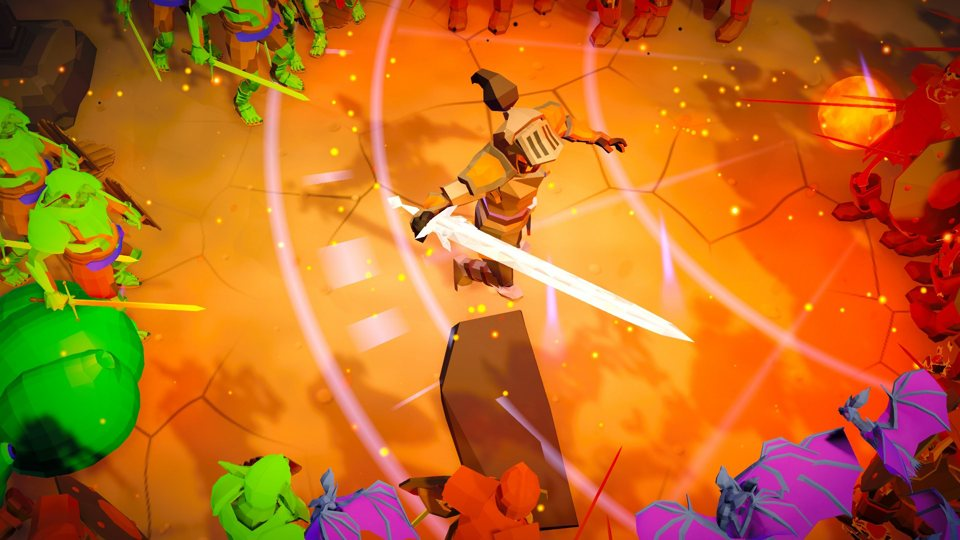
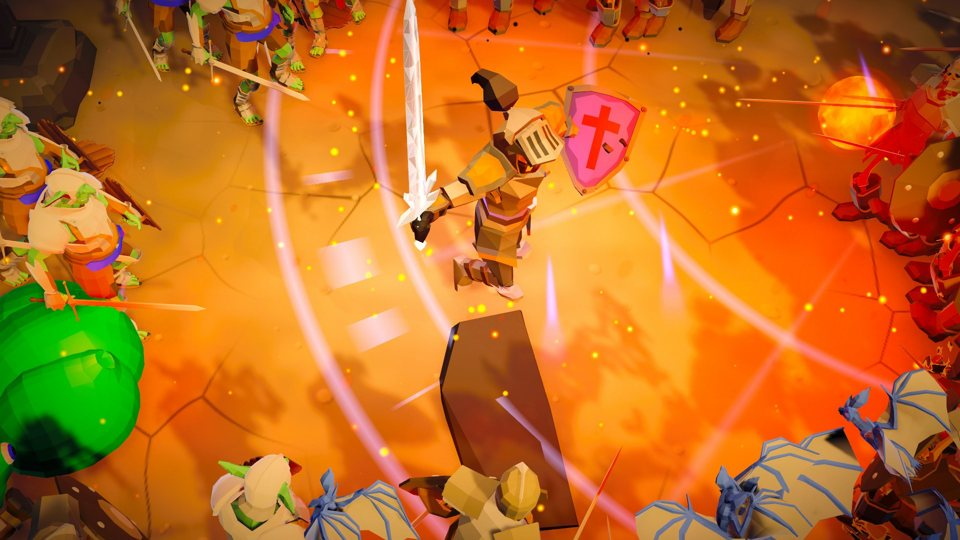
fix(demo3d): hold the hero's crystal blade in the fist and stop it flailing
The blade took its axes from the Synty broadsword, whose blade runs along
the hand bone's Y while this hand's fist runs along its Z, so it stuck out
of the back of the hand and swung through the body. HeroBlade now builds
the grip from the hand's finger bones (across the knuckles, blade on the
thumb side, edge toward the knuckles) and shortens the blade to 1.15 m.
The walk and run are unarmed clips, so StockCrowd.HoldArms layers the
sword idle's arms over them. The shield, drawn at the hand bone's scale
(about 1 cm), now gets the character's scale. --blade-tune gains grip keys.

diff --git a/demo3d/Assets/Demo3D/Runtime/Crowd/HeroBlade.cs b/demo3d/Assets/Demo3D/Runtime/Crowd/HeroBlade.cs
@@ -9,20 +9,23 @@ namespace Demo3D.Runtime.Crowd
     /// <summary>
     /// The hero's crystal blade (crowd.md, The Hero): a big cut-crystal sword, white and glowing, in
     /// place of the knight's broadsword, under every monster style. Its mesh is made here (no vendor
-    /// asset): a pommel gem, a crossguard and a long diamond-section blade with a spine, every triangle
+    /// asset): a pommel gem, a crossguard and a long faceted blade with a spine, every triangle
     /// flat with its own barycentrics, as the crowd's style mesh, so CrystalCommon's facets, edges and
     /// glints read on it. CrystalBlade.shader draws it.
     ///
-    /// The blade sits where the broadsword's mesh says the sword lies in the hand: its longest side is
-    /// the blade (toward its far end from the grip), its next the crossguard, so the blade's edges stay
-    /// in the swing's plane. The broadsword's renderer is turned off, not removed.
+    /// The grip comes from the hand's bones: the handle runs through the fist across the knuckles, the
+    /// blade leaving it on the thumb's side with its edge toward the knuckles, as the Sword Combat clips
+    /// hold a sword. The broadsword's renderer is turned off, not removed.
     /// </summary>
     public sealed class HeroBlade : IDisposable
     {
-        /// <summary>The blade's length from the guard to the tip, in metres (the broadsword's is about 1 m).</summary>
-        public const float BladeM = 1.45f;
+        /// <summary>The blade's length from the guard to the tip, in metres: big, but short enough that the
+        /// sword clips' swings stay clear of the body and the ground.</summary>
+        public const float BladeM = 1.15f;
         /// <summary>The blade's width at the guard and its thickness at the spine, in metres.</summary>
-        public const float WidthM = 0.17f, ThickM = 0.055f;
+        public const float WidthM = 0.15f, ThickM = 0.05f;
+        /// <summary>The middle of the handle, which sits in the fist (mesh metres, below the guard).</summary>
+        const float GripY = -0.06f;
 
         /// <summary>A blow's flare: up at once, gone over this long (s).</summary>
         const float FlareS = 0.22f;
@@ -31,8 +34,8 @@ namespace Demo3D.Runtime.Crowd
 
         /// <summary>
         /// `--blade-tune key=value,...`: overrides the blade material's values for a run, to judge a
-        /// change without a rebuild. Keys: behind, glow, flare, gain, peak, refraction, facets, and the
-        /// gem's colour as r, g, b.
+        /// change without a rebuild. Keys: behind, glow, flare, gain, peak, refraction, facets, the
+        /// gem's colour as r, g, b, and the grip's palm, back, pitch, yaw, roll and length (GripTune).
         /// </summary>
         public const string TuneFlag = "--blade-tune";
 
@@ -43,6 +46,12 @@ namespace Demo3D.Runtime.Crowd
         };
 
         float _flareGain = 1f;
+
+        /// <summary>The grip's tuning (`--blade-tune`): the handle's offset toward the palm and back from
+        /// the knuckles (m), a turn on top of the fist's axes (degrees: pitch about the edge, yaw about
+        /// the blade, roll about the flats) and the sword's scale.</summary>
+        struct GripTune { public float PalmM, BackM, Pitch, Yaw, Roll, Length; }
+        GripTune _tune = new GripTune { PalmM = 0.02f, Length = 1f };
 
         readonly Material _material, _motion;
         readonly Mesh _mesh;
@@ -72,57 +81,85 @@ namespace Demo3D.Runtime.Crowd
                 int k = Array.FindIndex(TuneKeys, t => t.Key == key);
                 if (k >= 0) _material.SetFloat(TuneKeys[k].Property, v);
                 else if (key == "flare") _flareGain = v;
+                else if (key == "palm") _tune.PalmM = v;
+                else if (key == "back") _tune.BackM = v;
+                else if (key == "pitch") _tune.Pitch = v;
+                else if (key == "yaw") _tune.Yaw = v;
+                else if (key == "roll") _tune.Roll = v;
+                else if (key == "length") _tune.Length = v;
                 else if (key == "r") tint.r = v;
                 else if (key == "g") tint.g = v;
                 else if (key == "b") tint.b = v;
-                else throw new ArgumentException($"{TuneFlag}: no key '{key}' (behind, glow, flare, gain, peak, refraction, facets, r, g, b)");
+                else throw new ArgumentException($"{TuneFlag}: no key '{key}' (behind, glow, flare, gain, peak, refraction, facets, r, g, b, palm, back, pitch, yaw, roll, length)");
             }
             _material.SetColor("_Tint", tint);
             Debug.Log($"HeroBlade: {TuneFlag} {pairs}");
         }
 
-        /// <summary>Puts the blade in the hero's right hand (StockCrowd.Created).</summary>
+        /// <summary>Puts the blade in the hero's right hand (StockCrowd.Created), in its bind pose.</summary>
         public void Attach(GameObject hero)
         {
             var animator = hero.GetComponentInChildren<Animator>();
             var hand = animator != null && animator.isHuman ? animator.GetBoneTransform(HumanBodyBones.RightHand) : null;
             if (hand == null) throw new InvalidOperationException("HeroBlade: the hero has no humanoid right hand");
-            // The broadsword: the mesh renderer under the hand.
-            var sword = hand.GetComponentInChildren<MeshFilter>();
-            if (sword == null || sword.sharedMesh == null) throw new InvalidOperationException("HeroBlade: no sword in the hero's right hand");
+            var sword = hand.GetComponentInChildren<MeshFilter>(); // the broadsword, turned off below
+            float handScale = hand.lossyScale.x;
 
-            // The sword's mesh bounds in the hand's space: its longest side is the blade, toward the end
-            // farther from the grip (the hand's origin); the next longest is the crossguard.
-            var b = sword.sharedMesh.bounds;
-            var toHand = hand.worldToLocalMatrix * sword.transform.localToWorldMatrix;
-            Vector3 min = Vector3.positiveInfinity, max = Vector3.negativeInfinity;
-            for (int i = 0; i < 8; i++)
-            {
-                var c = toHand.MultiplyPoint3x4(b.center + Vector3.Scale(b.extents, new Vector3((i & 1) * 2 - 1, (i >> 1 & 1) * 2 - 1, (i >> 2 & 1) * 2 - 1)));
-                min = Vector3.Min(min, c);
-                max = Vector3.Max(max, c);
-            }
-            var size = max - min;
-            int along = size.x >= size.y && size.x >= size.z ? 0 : size.y >= size.z ? 1 : 2;
-            int across = along == 0 ? (size.y >= size.z ? 1 : 2) : along == 1 ? (size.x >= size.z ? 0 : 2) : (size.x >= size.y ? 0 : 1);
-            var tip = Vector3.zero;
-            tip[along] = Mathf.Abs(max[along]) >= Mathf.Abs(min[along]) ? 1 : -1;
-            var edge = Vector3.zero;
-            edge[across] = 1;
+            // The grip runs through the fist: across the knuckles, from the fused fingers' root to the
+            // index finger's, so the blade leaves the fist on the thumb's side, as a held sword does.
+            // Its edge faces the way the fingers point (the knuckles' side), and the handle sits a
+            // little in from the knuckles toward the palm. All in the hand's space, from the bind pose.
+            Vector3 Local(Transform t) => hand.InverseTransformPoint(t.position);
+            var index = Bone(animator, hand, HumanBodyBones.RightIndexProximal, "IndexFinger_01");
+            var rest = Bone(animator, hand, HumanBodyBones.RightMiddleProximal, "Finger_01")
+                ?? Bone(animator, hand, HumanBodyBones.RightRingProximal, null);
+            var thumb = Bone(animator, hand, HumanBodyBones.RightThumbProximal, "Thumb_01");
+            if (index == null || rest == null || index.childCount == 0)
+                throw new InvalidOperationException("HeroBlade: the hero's right hand has no index and middle finger bones");
+            Vector3 a = Local(index), r = Local(rest), next = Local(index.GetChild(0));
+            var axis = (a - r).normalized;
+            var finger = next - a;
+            var edge = (finger - Vector3.Dot(finger, axis) * axis).normalized;
+            var palm = Vector3.Cross(axis, edge);
+            var knuckles = (a + r) * 0.5f;
+            if (thumb != null && Vector3.Dot(palm, Local(thumb) - knuckles) < 0) palm = -palm;
+            var grip = knuckles + (palm * _tune.PalmM - edge * _tune.BackM) / handScale;
 
+            var turn = Quaternion.LookRotation(Vector3.Cross(edge, axis), axis) * Quaternion.Euler(_tune.Pitch, _tune.Yaw, _tune.Roll);
             var go = new GameObject("CrystalBlade");
             go.transform.SetParent(hand, false);
-            // The mesh is in metres: undo the hand's scale (the prefab's, at its scale in the demo).
-            float handScale = hand.lossyScale.x;
-            go.transform.localScale = Vector3.one / handScale;
-            go.transform.localRotation = Quaternion.LookRotation(Vector3.Cross(edge, tip), tip);
+            // The mesh is in metres: undo the hand's scale (the prefab's, at its scale in the demo). Its
+            // handle's middle (GripY) is in the fist.
+            go.transform.localScale = Vector3.one * (_tune.Length / handScale);
+            go.transform.localRotation = turn;
+            go.transform.localPosition = grip - turn * new Vector3(0, GripY * _tune.Length / handScale, 0);
             go.AddComponent<MeshFilter>().sharedMesh = _mesh;
-            var r = go.AddComponent<MeshRenderer>();
-            r.sharedMaterials = new[] { _material, _motion };
-            r.shadowCastingMode = ShadowCastingMode.On;
-            r.motionVectorGenerationMode = MotionVectorGenerationMode.Object;
-            sword.GetComponent<MeshRenderer>().enabled = false;
-            Debug.Log($"HeroBlade: replaced {sword.name} ({size[along] * handScale:F2} m) with a {BladeM:F2} m crystal blade");
+            var mr = go.AddComponent<MeshRenderer>();
+            mr.sharedMaterials = new[] { _material, _motion };
+            mr.shadowCastingMode = ShadowCastingMode.On;
+            mr.motionVectorGenerationMode = MotionVectorGenerationMode.Object;
+            if (sword != null) sword.GetComponent<MeshRenderer>().enabled = false;
+
+            // The shield rides the left hand as the broadsword did, at the hand bone's scale, which
+            // drew it about 1 cm wide: give it the character's scale instead.
+            var leftHand = animator.GetBoneTransform(HumanBodyBones.LeftHand);
+            var shield = leftHand != null ? leftHand.GetComponentInChildren<MeshFilter>() : null;
+            if (shield != null)
+            {
+                shield.transform.localScale = Vector3.one * (hero.transform.lossyScale.x / leftHand.lossyScale.x);
+                Debug.Log($"HeroBlade: {shield.name} at the character's scale ({shield.sharedMesh.bounds.size.magnitude * hero.transform.lossyScale.x:F2} m across)");
+            }
+            Debug.Log($"HeroBlade: a {BladeM * _tune.Length:F2} m crystal blade in {hand.name}: axis {axis:F2}, edge {edge:F2}, palm {palm:F2}, " +
+                      $"grip {grip * handScale:F3} m from the wrist" + (sword != null ? $", in place of {sword.name}" : ""));
+        }
+
+        static Transform Bone(Animator animator, Transform hand, HumanBodyBones bone, string name)
+        {
+            var t = animator.GetBoneTransform(bone);
+            if (t != null || name == null) return t;
+            foreach (Transform c in hand)
+                if (c.name == name) return c;
+            return null;
         }
 
         /// <summary>Sets the blow flare for song time t in timeline tl (the world's time, as the hero is posed on).</summary>
@@ -221,8 +258,8 @@ namespace Demo3D.Runtime.Crowd
                 b.Spike(root, dir, len, 0.022f);
             }
             // The grip, inside the hand, and the pommel gem.
-            b.Bipyramid(new Vector3(0, -0.08f, 0), new Vector3(0.022f, 0, 0), new Vector3(0, 0.11f, 0), new Vector3(0, 0, 0.022f), 6);
-            b.Bipyramid(new Vector3(0, -0.21f, 0), new Vector3(0.04f, 0, 0), new Vector3(0, 0.05f, 0), new Vector3(0, 0, 0.04f), 5);
+            b.Bipyramid(new Vector3(0, GripY, 0), new Vector3(0.02f, 0, 0), new Vector3(0, 0.085f, 0), new Vector3(0, 0, 0.02f), 6);
+            b.Bipyramid(new Vector3(0, GripY - 0.11f, 0), new Vector3(0.035f, 0, 0), new Vector3(0, 0.045f, 0), new Vector3(0, 0, 0.035f), 5);
             return b.ToMesh();
         }
 

diff --git a/demo3d/Assets/Demo3D/Runtime/Crowd/StockCrowd.cs b/demo3d/Assets/Demo3D/Runtime/Crowd/StockCrowd.cs
@@ -28,6 +28,8 @@ namespace Demo3D.Runtime.Crowd
             public PlayableGraph Graph;
             public AnimationMixerPlayable Mixer;
             public AnimationClipPlayable[] Clips;
+            public AnimationLayerMixerPlayable Layers; // with HoldArms: the mixer, then the held arms
+            public AnimationClipPlayable Hold;
             public Renderer[] Renderers;
             public Vector3 BaseScale;
             public float SinkM;
@@ -56,6 +58,29 @@ namespace Demo3D.Runtime.Crowd
         /// <summary>Called with each new monster's GameObject, after its renderers are listed, so what it
         /// adds keeps its own material properties (the hero's blade, HeroBlade).</summary>
         public System.Action<GameObject> Created;
+
+        int _holdClip = -1;
+        bool[] _holdsDuring;
+        float _holdShare;
+        AvatarMask _armsMask;
+
+        /// <summary>
+        /// Holds the arms in clip <paramref name="hold"/>'s pose while clips <paramref name="during"/>
+        /// play (the hero: the sword idle's arms over the unarmed walk and run, whose swinging arms
+        /// would fling the blade through the body), by <paramref name="share"/> of their weight. A
+        /// layer over the mixer, masked to the arms and fingers. Call before the first Draw.
+        /// </summary>
+        public void HoldArms(int hold, int[] during, float share = 1f)
+        {
+            _holdClip = hold;
+            _holdsDuring = new bool[_types[0].Assets.clips.Length];
+            foreach (int c in during) _holdsDuring[c] = true;
+            _holdShare = share;
+            _armsMask = new AvatarMask();
+            for (int i = 0; i < (int)AvatarMaskBodyPart.LastBodyPart; i++) _armsMask.SetHumanoidBodyPartActive((AvatarMaskBodyPart)i, false);
+            foreach (var part in new[] { AvatarMaskBodyPart.LeftArm, AvatarMaskBodyPart.RightArm, AvatarMaskBodyPart.LeftFingers, AvatarMaskBodyPart.RightFingers })
+                _armsMask.SetHumanoidBodyPartActive(part, true);
+        }
 
         public StockCrowd(bool vendorMaterials = false) { _vendorMaterials = vendorMaterials; }
 
@@ -125,7 +150,20 @@ namespace Demo3D.Runtime.Crowd
                 slot.Mixer.SetInputWeight(c, 0);
                 slot.Clips[c] = p;
             }
-            output.SetSourcePlayable(slot.Mixer);
+            if (_holdClip >= 0)
+            {
+                slot.Layers = AnimationLayerMixerPlayable.Create(slot.Graph, 2);
+                slot.Graph.Connect(slot.Mixer, 0, slot.Layers, 0);
+                slot.Layers.SetInputWeight(0, 1);
+                slot.Hold = AnimationClipPlayable.Create(slot.Graph, t.Assets.clips[_holdClip]);
+                slot.Hold.SetApplyFootIK(false);
+                slot.Hold.SetSpeed(0);
+                slot.Graph.Connect(slot.Hold, 0, slot.Layers, 1);
+                slot.Layers.SetLayerMaskFromAvatarMask(1, _armsMask);
+                slot.Layers.SetInputWeight(1, 0);
+                output.SetSourcePlayable(slot.Layers);
+            }
+            else output.SetSourcePlayable(slot.Mixer);
             slot.Graph.Play();
             Created?.Invoke(go);
             return slot;
@@ -189,6 +227,15 @@ namespace Demo3D.Runtime.Crowd
             if (b != a) s.Mixer.SetInputWeight((int)b, 1f - blend);
             s.Clips[a].SetTime(m.TimeA);
             if (b != a) s.Clips[b].SetTime(m.TimeB);
+            if (s.Layers.IsValid())
+            {
+                // The held arms take the walk's and run's share of the blend, so they ease in and out
+                // with the crossfades to and from the sword clips; the hold clip breathes on the walk's phase.
+                float held = (_holdsDuring[a] ? blend : 0f) + (b != a && _holdsDuring[b] ? 1f - blend : 0f);
+                s.Layers.SetInputWeight(1, held * _holdShare);
+                var holdClip = s.Hold.GetAnimationClip();
+                s.Hold.SetTime(_holdsDuring[a] ? m.TimeA / Mathf.Max(s.Clips[a].GetAnimationClip().length, 0.01f) * holdClip.length : 0);
+            }
 
             float flash = Mathf.Clamp01(m.HitFlash);
             if (_vendorMaterials)
@@ -221,6 +268,7 @@ namespace Demo3D.Runtime.Crowd
                 if (t.Instances.IsCreated) t.Instances.Dispose();
             }
             if (_root != null) Object.Destroy(_root.gameObject);
+            if (_armsMask != null) Object.Destroy(_armsMask);
             _types = null;
         }
     }

diff --git a/demo3d/Assets/Demo3D/Runtime/Playback/DemoMain.cs b/demo3d/Assets/Demo3D/Runtime/Playback/DemoMain.cs
@@ -236,6 +236,10 @@ namespace Demo3D.Runtime.Playback
             // texture, so that is on in every run.
             _heroBlade = new HeroBlade(CrowdLibrary.Load());
             _heroRenderer.Created = _heroBlade.Attach;
+            // The walk and run are unarmed: their swinging arms would fling the blade through the body,
+            // so the sword idle holds the arms while they play.
+            int heroIdle = _hero.ClipIndex("idle"), heroRun = _hero.ClipIndex("run");
+            if (heroIdle >= 0) _heroRenderer.HoldArms(heroIdle, heroRun >= 0 ? new[] { _heroWalk, heroRun } : new[] { _heroWalk });
             ApplyAntiAliasing(_flags.Aa, _rig.Camera);
             _supersample = Supersampling.Factor(_flags);
             Supersampling.Apply(_supersample);

diff --git a/docs/tech-demo-3d/crowd.md b/docs/tech-demo-3d/crowd.md
@@ -460,16 +460,34 @@ their clip timing still comes from the timeline.
   Idles packs.
 - **The crystal blade.** The knight's broadsword is replaced by a big
   white crystal blade (`HeroBlade`), under every `--monster-style`: a
-  1.45 m diamond-section blade with a spine, a crossguard of crystal
-  points, shards growing from its root and a pommel gem. Its mesh is made
-  at start-up, so it is no vendor asset. It sits where the broadsword's
-  mesh lies in the hand: the broadsword's longest side is the blade's axis
-  and its next the crossguard's, so the edges stay in the swing's plane.
-  The broadsword's renderer is turned off. (The broadsword itself drew
-  about 1 cm long, as `HeroBlade`'s log measures it: the roster attaches
-  weapons to the hand bone with no correction for the bone's scale, so it
-  was never visible. The blade undoes the hand's scale, so its mesh is in
-  metres.)
+  1.15 m faceted blade with a spine, a crossguard of crystal points,
+  shards growing from its root and a pommel gem. Its mesh is made at
+  start-up, so it is no vendor asset. The broadsword's renderer is turned
+  off.
+  - **The grip** comes from the right hand's bones in the bind pose: the
+    handle runs through the fist across the knuckles (from the fused
+    fingers' root to the index finger's), the blade leaving it on the
+    thumb's side with its edge toward the knuckles, and the handle sits
+    2 cm in from the knuckles toward the palm. That is how the Sword
+    Combat clips hold a sword. The Synty broadsword's own axes are 90
+    degrees off this hand's (its blade runs along the hand bone's Y, the
+    fist along its Z), so a blade placed by the broadsword stuck out of
+    the back of the hand and swung through the body.
+  - **The scale.** The roster attaches weapons to the hand bone with no
+    correction for the bone's scale, which drew the broadsword about 1 cm
+    long and the shield as small: the hero looked empty-handed. The blade
+    undoes the hand's scale, so its mesh is in metres, and `HeroBlade`
+    gives the shield (`SM_Wep_Shield_01`, on the left hand, placed as Synty
+    made it) the character's scale. The crowd's weapons are untouched.
+  - **The arms while walking.** The hero's walk and run are Base
+    Locomotion's unarmed clips (Sword Combat has none), whose swinging
+    arms carried the blade behind the back and through the legs. So
+    `StockCrowd.HoldArms` layers the sword idle's arms and fingers (an
+    `AvatarMask` on an `AnimationLayerMixerPlayable`) over the walk and
+    run, by their share of the blend, so the arms ease into and out of
+    the combos with the crossfades; the hold breathes on the walk's phase.
+    The hero walks about a third of the song and never plays the idle on
+    its own.
   - **The look** is Crystal's (`CrystalCommon.hlsl`, in
     `Demo3D/Styles/CrystalBlade`): faceted gem refracting the scene, banded
     reflections, lit facet edges and glints, in white. A light inside,
@@ -491,7 +509,9 @@ their clip timing still comes from the timeline.
     light pool doesn't wash its facets out, and its gem is a grey white
     that the light inside lifts to white. `--blade-tune key=value,...`
     overrides the material for a run (behind, glow, flare, gain, peak,
-    refraction, facets, and the gem's r, g, b). Stills:
+    refraction, facets, and the gem's r, g, b) and the grip (palm and back,
+    the handle's offsets in metres; pitch, yaw and roll, a turn in
+    degrees; length, the sword's scale). Stills:
     [evidence/blade](../../demo3d/evidence/blade/README.md).
 - **Animation.** A `PlayableGraph` driven by song time plays the hero's clips,
   with no Animator state machine. Each combo clip starts as its retiming

diff --git a/demo3d/evidence/blade/README.md b/demo3d/evidence/blade/README.md
@@ -1,13 +1,17 @@
 # The hero's crystal blade
 
 Stills of `HeroBlade` (crowd.md, The Hero) at its defaults, from the Mac's
-IL2CPP player, windowless and in fixed time (2026-10-30):
+IL2CPP player, windowless and in fixed time (2026-10-30), after the grip
+pass: the grip from the hand's bones, the 1.15 m blade, the shield at the
+character's scale and the sword idle's arms over the walk.
 
-- `game-view-100s.jpg`: the song's own camera at 100.2 s, the forest. The
-  broadsword it replaces drew about 1 cm long here, so the hero looked
-  empty-handed.
-- `close-up-60s.jpg`: `--view-width 7` at 60 s, mid-swing: the cut facets,
-  the light down the spine, the crossguard's points and root shards.
+- `game-view-100s.jpg`: the song's own camera at 100.2 s, the forest.
+- `close-up-60s.jpg`: `--view-width 7` at 60 s: the blade raised out of
+  the fist, the shield on the forearm.
+- `combo-strip-60s.jpg`: `--view-width 8`, 60 to 61.8 s every 0.2 s,
+  left to right then the second row: a combo's swings.
+- `walk-hold-200s.jpg`: `--view-width 8` at 200.5 s, walking at the song's
+  end: the sword idle's ready stance over the walk's legs.
 - `neon-60s.jpg`: `--environment neon` at 60 s.
 
 To reproduce (from a worktree's root, after `demo3d build`):
@@ -18,6 +22,8 @@ To reproduce (from a worktree's root, after `demo3d build`):
   --fixed-time --view-width 7 --capture-stills "$PWD/captures/blade" --stills-at 60 --start-at 56 --seconds 5
 ```
 
-Add `--blade-tune glow=1.6,behind=0.3` (keys in crowd.md) to judge a change
-without a rebuild. Paths must be absolute: the player doesn't resolve them
-against the shell's directory.
+`--view-width` changes the timeline (the horde is placed for the wider
+view), so the hero's moves at a time differ between widths. Add
+`--blade-tune pitch=10,palm=0.03,length=0.9` (keys in crowd.md) to judge a
+change without a rebuild. Paths must be absolute: the player doesn't resolve
+them against the shell's directory.
